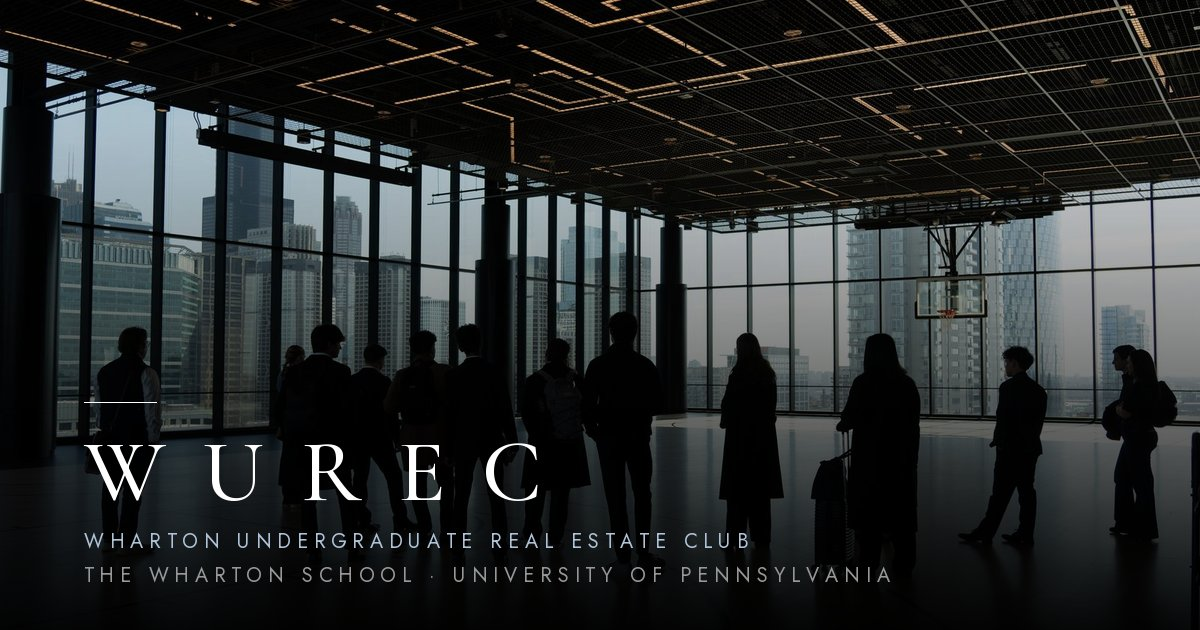
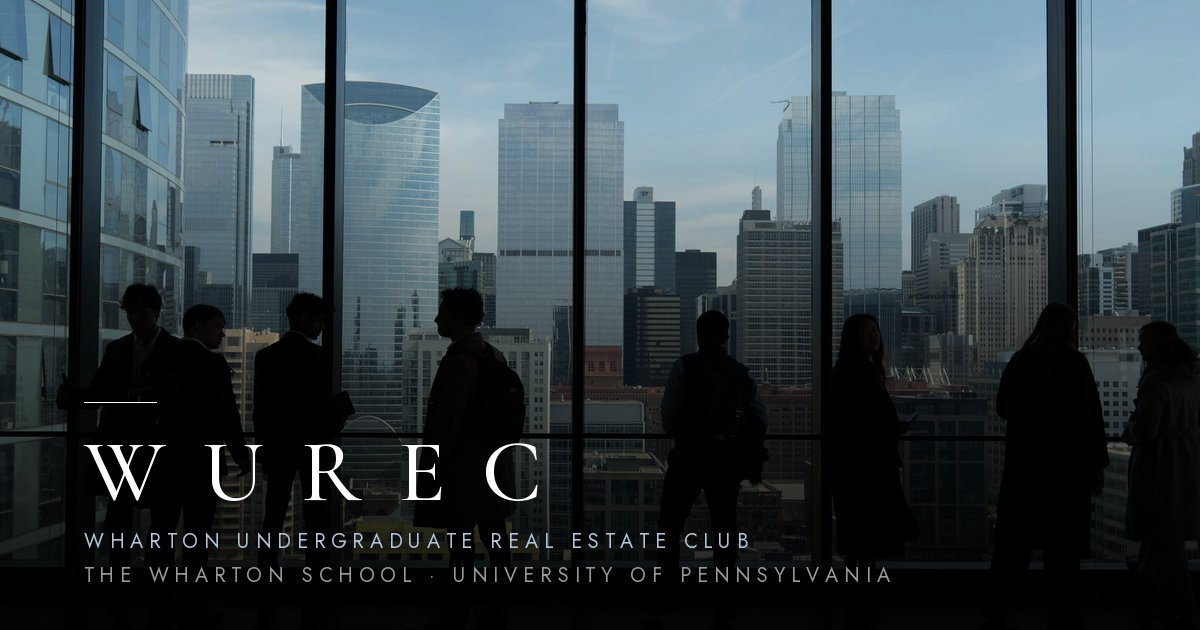
Use the view-from-the-top photo for the home and board page heroes
The landing page hero and the Executive Board page header both showed the
"group" photo (carousel/07.jpg). They now use the "view from the top" photo
(carousel/08.jpg) instead, with matching alt text, and the hero front matter
follows so the preload tag and the link-preview fallback stay in step. The
generated link-preview images for both pages were regenerated with
tools/make_brand.py; the photo strip on the home page is unchanged.

Claude-Session: https://claude.ai/code/session_0186VnMkW5oq29xt76s11Q5n

diff --git a/exec-board/index.html b/exec-board/index.html
@@ -17,7 +17,7 @@
 <meta property="og:image:alt" content="Executive Board | WUREC — Wharton Undergraduate Real Estate Club">
 <meta name="twitter:card" content="summary_large_image">
 <meta name="twitter:site" content="@WUREC">
-<link rel="preload" as="image" href="../assets/img/carousel/07.jpg" fetchpriority="high">
+<link rel="preload" as="image" href="../assets/img/carousel/08.jpg" fetchpriority="high">
 <meta name="theme-color" content="#000000">
 <link rel="icon" href="../assets/img/favicon.svg" type="image/svg+xml">
 <link rel="icon" href="../assets/img/favicon-32.png" type="image/png" sizes="32x32">
@@ -59,7 +59,7 @@
   Phone numbers are intentionally not published.
 -->
 <section class="page-hero">
-  <div class="page-hero__media"><img class="kb" fetchpriority="high" src="../assets/img/carousel/07.jpg" alt="The group in a glass-walled space with the skyline behind them."></div>
+  <div class="page-hero__media"><img class="kb" fetchpriority="high" src="../assets/img/carousel/08.jpg" alt="Members at floor-to-ceiling windows overlooking a downtown skyline."></div>
   <div class="page-hero__panel">
     <p class="eyebrow" data-reveal>2026&ndash;2027</p>
     <h1 data-reveal>Executive Board</h1>

diff --git a/index.html b/index.html
@@ -17,7 +17,7 @@
 <meta property="og:image:alt" content="Wharton Undergraduate Real Estate Club (WUREC) | Penn">
 <meta name="twitter:card" content="summary_large_image">
 <meta name="twitter:site" content="@WUREC">
-<link rel="preload" as="image" href="assets/img/carousel/07.jpg" fetchpriority="high">
+<link rel="preload" as="image" href="assets/img/carousel/08.jpg" fetchpriority="high">
 <meta name="theme-color" content="#000000">
 <link rel="icon" href="assets/img/favicon.svg" type="image/svg+xml">
 <link rel="icon" href="assets/img/favicon-32.png" type="image/png" sizes="32x32">
@@ -44,7 +44,7 @@
 <main id="main">
 <section class="hero-split" id="top">
   <div class="hero-split__media">
-    <img class="kb" src="assets/img/carousel/07.jpg" alt="The group in a glass-walled space with the skyline behind them." fetchpriority="high">
+    <img class="kb" src="assets/img/carousel/08.jpg" alt="Members at floor-to-ceiling windows overlooking a downtown skyline." fetchpriority="high">
   </div>
   <div class="hero-split__panel">
     <h1 data-reveal>Wharton Undergraduate Real Estate Club</h1>

diff --git a/src/pages/exec-board.html b/src/pages/exec-board.html
@@ -2,7 +2,7 @@
 title: Executive Board
 slug: exec-board
 description: Meet the 2026–2027 WUREC Executive Board: the Penn students who lead the Wharton Undergraduate Real Estate Club and its eight committees.
-hero: assets/img/carousel/07.jpg
+hero: assets/img/carousel/08.jpg
 ---
 <!--
   2026/2027 board roster, grouped by committee (two members per group).
@@ -21,7 +21,7 @@ hero: assets/img/carousel/07.jpg
   Phone numbers are intentionally not published.
 -->
 <section class="page-hero">
-  <div class="page-hero__media"><img class="kb" fetchpriority="high" src="{{root}}assets/img/carousel/07.jpg" alt="The group in a glass-walled space with the skyline behind them."></div>
+  <div class="page-hero__media"><img class="kb" fetchpriority="high" src="{{root}}assets/img/carousel/08.jpg" alt="Members at floor-to-ceiling windows overlooking a downtown skyline."></div>
   <div class="page-hero__panel">
     <p class="eyebrow" data-reveal>2026&ndash;2027</p>
     <h1 data-reveal>Executive Board</h1>

diff --git a/src/pages/index.html b/src/pages/index.html
@@ -2,13 +2,13 @@
 title: Wharton Undergraduate Real Estate Club
 slug: 
 description: Wharton Undergraduate Real Estate Club (WUREC) connects Penn undergraduates with real estate through treks to top firms, industry speakers, case competitions and careers.
-hero: assets/img/carousel/07.jpg
+hero: assets/img/carousel/08.jpg
 body_class: home
 seo_title: Wharton Undergraduate Real Estate Club (WUREC) | Penn
 ---
 <section class="hero-split" id="top">
   <div class="hero-split__media">
-    <img class="kb" src="{{root}}assets/img/carousel/07.jpg" alt="The group in a glass-walled space with the skyline behind them." fetchpriority="high">
+    <img class="kb" src="{{root}}assets/img/carousel/08.jpg" alt="Members at floor-to-ceiling windows overlooking a downtown skyline." fetchpriority="high">
   </div>
   <div class="hero-split__panel">
     <h1 data-reveal>Wharton Undergraduate Real Estate Club</h1>
